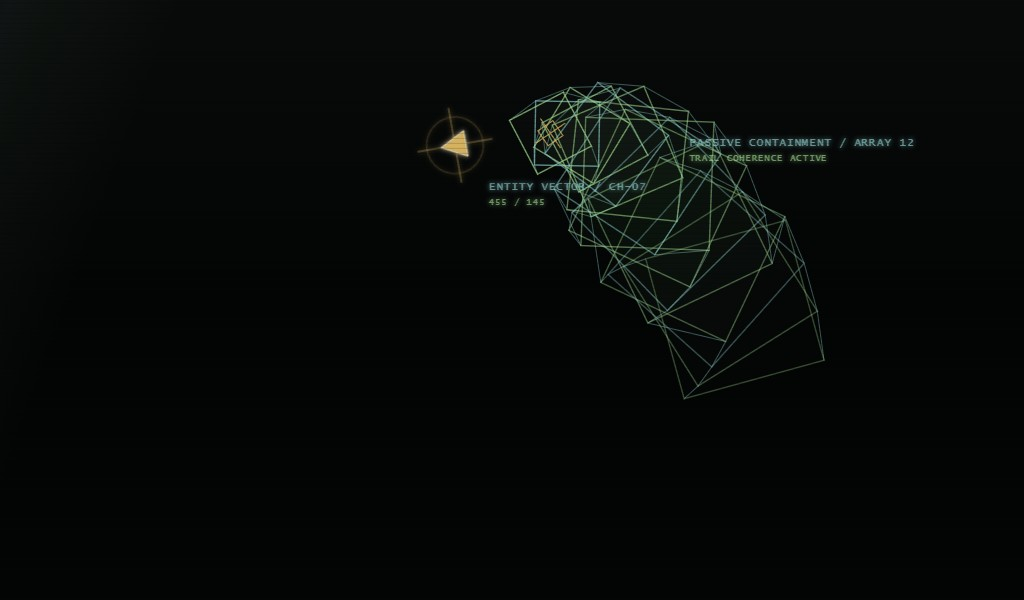
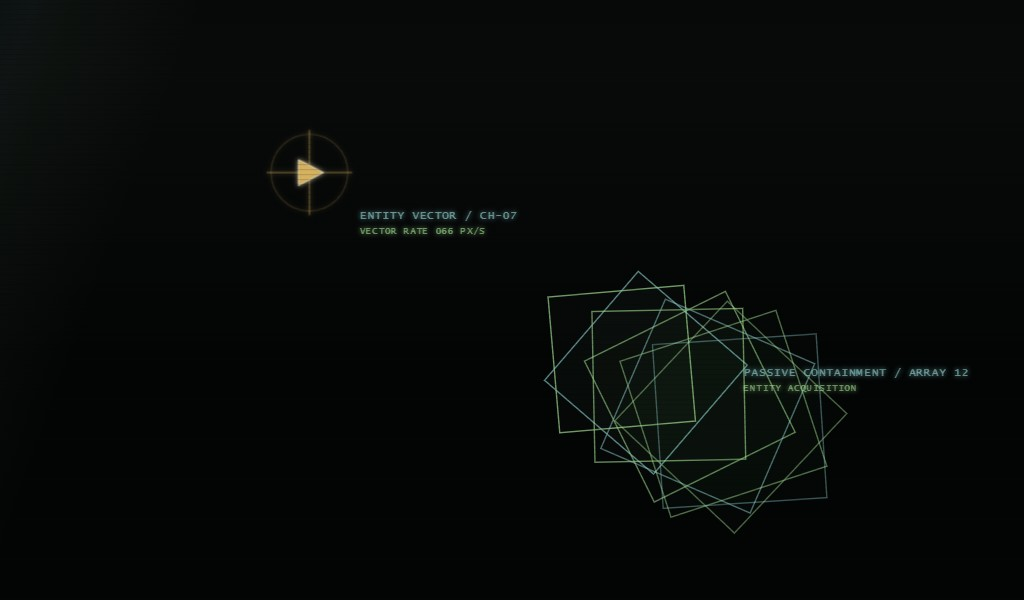
refine standby pursuit dynamics

Changed region(s): [[0.3438, 0.12, 0.9375, 0.87], [0.25, 0.21, 0.3438, 0.36], [0.4062, 0.18, 0.4688, 0.3]]

diff --git a/src/specter/ui/web_static/app.js b/src/specter/ui/web_static/app.js
@@ -1343,28 +1343,21 @@ function screensaverScreen() {
             <feMerge><feMergeNode in="blur"></feMergeNode><feMergeNode in="SourceGraphic"></feMergeNode></feMerge>
           </filter>
         </defs>
-        <g class="tunnel-rails">
-          <path></path><path></path><path></path><path></path>
-        </g>
         <g class="tunnel-frames">
-          ${Array.from({ length: 16 }, (_, index) => `<rect data-frame="${index}" x="-50" y="-50" width="100" height="100"></rect>`).join("")}
-        </g>
-        <g class="tunnel-core" aria-hidden="true">
-          <rect x="-9" y="-9" width="18" height="18"></rect>
-          <path d="M -18 0 H 18 M 0 -18 V 18"></path>
+          ${Array.from({ length: 8 }, (_, index) => `<rect data-frame="${index}" x="-50" y="-50" width="100" height="100"></rect>`).join("")}
         </g>
         <g class="containment-target" aria-hidden="true">
-          <circle r="27"></circle>
+          <circle data-speed-ring r="27"></circle>
           <path class="target-cross" d="M -38 0 H 38 M 0 -38 V 38"></path>
           <path class="target-mark" d="M 0 -14 L 13 11 L -13 11 Z"></path>
         </g>
         <g class="tunnel-label tunnel-array-label">
           <text>PASSIVE CONTAINMENT / ARRAY 12</text>
-          <text y="15">TRAIL COHERENCE ACTIVE</text>
+          <text y="15" data-lock-readout>ENTITY ACQUISITION</text>
         </g>
         <g class="tunnel-label tunnel-target-label">
           <text>ENTITY VECTOR / CH-07</text>
-          <text y="15" data-vector-readout>000 / 000</text>
+          <text y="15" data-vector-readout>VECTOR RATE 000 px/s</text>
         </g>
       </svg>
     </div>
@@ -1384,29 +1377,49 @@ function startScreensaverAnimation() {
   const svg = screen.querySelector(".containment-tunnel");
   if (!svg) return;
   const frames = [...svg.querySelectorAll("[data-frame]")];
-  const rails = [...svg.querySelectorAll(".tunnel-rails path")];
-  const core = svg.querySelector(".tunnel-core");
   const target = svg.querySelector(".containment-target");
+  const targetRing = svg.querySelector("[data-speed-ring]");
+  const targetCross = svg.querySelector(".target-cross");
   const arrayLabel = svg.querySelector(".tunnel-array-label");
   const targetLabel = svg.querySelector(".tunnel-target-label");
+  const lockReadout = svg.querySelector("[data-lock-readout]");
   const vectorReadout = svg.querySelector("[data-vector-readout]");
   const startedAt = performance.now();
   let lastRenderedAt = 0;
+  let lastTickAt = startedAt;
+  let lockAmount = 0;
+  let captureSeconds = 0;
+  let escapeUntil = 0;
+  let escapeCooldownUntil = 0;
+  let waypointIndex = 0;
+
+  const waypoints = [
+    { x: 790, y: 122 },
+    { x: 884, y: 448 },
+    { x: 574, y: 512 },
+    { x: 166, y: 432 },
+    { x: 132, y: 142 },
+    { x: 494, y: 86 },
+    { x: 704, y: 326 },
+    { x: 342, y: 294 },
+  ];
+  const targetState = { x: 268, y: 168, vx: 52, vy: 18 };
+  const chaserState = { x: 724, y: 414, vx: -44, vy: -16 };
+  const history = Array.from({ length: 96 }, (_, index) => ({
+    x: Math.min(940, chaserState.x + index * 2.3),
+    y: Math.min(532, chaserState.y + index * 1.05),
+  }));
 
   const clamp = (number, minimum, maximum) => Math.max(minimum, Math.min(maximum, number));
-  const trajectory = (seconds) => ({
-    x: clamp(512 + Math.sin(seconds * 0.61) * 300 + Math.sin(seconds * 1.37) * 72, 82, 942),
-    y: clamp(300 + Math.cos(seconds * 0.47) * 174 + Math.sin(seconds * 1.09) * 58, 74, 526),
-  });
-  const corners = (point, size, angleDegrees) => {
-    const angle = angleDegrees * Math.PI / 180;
-    const cosine = Math.cos(angle);
-    const sine = Math.sin(angle);
-    const half = size / 2;
-    return [[-half, -half], [half, -half], [half, half], [-half, half]].map(([x, y]) => ({
-      x: point.x + x * cosine - y * sine,
-      y: point.y + x * sine + y * cosine,
-    }));
+  const length = (x, y) => Math.hypot(x, y);
+  const sampleHistory = (index) => {
+    const lowerIndex = Math.min(history.length - 1, Math.floor(index));
+    const upperIndex = Math.min(history.length - 1, lowerIndex + 1);
+    const fraction = index - lowerIndex;
+    return {
+      x: history[lowerIndex].x + (history[upperIndex].x - history[lowerIndex].x) * fraction,
+      y: history[lowerIndex].y + (history[upperIndex].y - history[lowerIndex].y) * fraction,
+    };
   };
 
   const animate = (now) => {
@@ -1419,46 +1432,100 @@ function startScreensaverAnimation() {
       return;
     }
     lastRenderedAt = now;
+    const deltaSeconds = clamp((now - lastTickAt) / 1000, 0.001, 0.08);
+    lastTickAt = now;
     const seconds = (now - startedAt) / 1000 + 5.4;
-    const geometry = frames.map((frame, index) => {
-      const age = 0.62 + index * 0.145;
-      const point = trajectory(seconds - age);
-      const size = 70 + index * 5.8 + Math.sin(seconds * 0.92 - index * 0.46) * 12;
-      const angle = seconds * (14 + (index % 4) * 2.4) + index * 9.5
-        + Math.sin(seconds * 0.7 - index * 0.31) * 24;
+
+    let waypoint = waypoints[waypointIndex];
+    let targetToWaypointX = waypoint.x - targetState.x;
+    let targetToWaypointY = waypoint.y - targetState.y;
+    let targetToWaypointDistance = length(targetToWaypointX, targetToWaypointY);
+    if (targetToWaypointDistance < 46) {
+      waypointIndex = (waypointIndex + 1) % waypoints.length;
+      waypoint = waypoints[waypointIndex];
+      targetToWaypointX = waypoint.x - targetState.x;
+      targetToWaypointY = waypoint.y - targetState.y;
+      targetToWaypointDistance = length(targetToWaypointX, targetToWaypointY);
+    }
+
+    const escaping = now < escapeUntil;
+    const desiredTargetSpeed = escaping ? 350 : 72;
+    const targetSteering = escaping ? 5.6 : 1.8;
+    const desiredTargetVx = targetToWaypointX / Math.max(1, targetToWaypointDistance) * desiredTargetSpeed;
+    const desiredTargetVy = targetToWaypointY / Math.max(1, targetToWaypointDistance) * desiredTargetSpeed;
+    const targetBlend = Math.min(1, targetSteering * deltaSeconds);
+    targetState.vx += (desiredTargetVx - targetState.vx) * targetBlend;
+    targetState.vy += (desiredTargetVy - targetState.vy) * targetBlend;
+    targetState.x = clamp(targetState.x + targetState.vx * deltaSeconds, 72, 952);
+    targetState.y = clamp(targetState.y + targetState.vy * deltaSeconds, 68, 532);
+
+    const chaseX = targetState.x - chaserState.x;
+    const chaseY = targetState.y - chaserState.y;
+    const chaseDistance = length(chaseX, chaseY);
+    const desiredChaserSpeed = clamp(chaseDistance * 1.28, 36, 238);
+    const desiredChaserVx = chaseX / Math.max(1, chaseDistance) * desiredChaserSpeed;
+    const desiredChaserVy = chaseY / Math.max(1, chaseDistance) * desiredChaserSpeed;
+    const chaserBlend = Math.min(1, 3.3 * deltaSeconds);
+    chaserState.vx += (desiredChaserVx - chaserState.vx) * chaserBlend;
+    chaserState.vy += (desiredChaserVy - chaserState.vy) * chaserBlend;
+    chaserState.x = clamp(chaserState.x + chaserState.vx * deltaSeconds, 58, 966);
+    chaserState.y = clamp(chaserState.y + chaserState.vy * deltaSeconds, 54, 546);
+
+    const lockTarget = clamp(1 - chaseDistance / 112, 0, 1);
+    lockAmount += (lockTarget - lockAmount) * Math.min(1, deltaSeconds * 3.2);
+    if (!escaping && chaseDistance < 48 && now >= escapeCooldownUntil) {
+      captureSeconds += deltaSeconds;
+      if (captureSeconds > 1.15) {
+        waypointIndex = (waypointIndex + 3) % waypoints.length;
+        escapeUntil = now + 1650;
+        escapeCooldownUntil = now + 5200;
+        captureSeconds = 0;
+      }
+    } else {
+      captureSeconds = Math.max(0, captureSeconds - deltaSeconds * 1.8);
+    }
+
+    history.unshift({ x: chaserState.x, y: chaserState.y });
+    if (history.length > 96) history.pop();
+    const delayStep = 0.38 + (1 - lockAmount) * 3.45;
+    const frameGeometry = frames.map((frame, index) => {
+      const point = sampleHistory(index * delayStep);
+      const distanceToTarget = length(targetState.x - point.x, targetState.y - point.y);
+      const size = clamp(38 + distanceToTarget * 0.27, 38, 164);
+      const angle = seconds * (17 + (index % 3) * 4.1) + index * 17
+        + Math.sin(seconds * 0.73 - index * 0.42) * 19;
       frame.setAttribute("transform", `translate(${point.x.toFixed(2)} ${point.y.toFixed(2)}) rotate(${angle.toFixed(2)})`);
       frame.setAttribute("x", (-size / 2).toFixed(2));
       frame.setAttribute("y", (-size / 2).toFixed(2));
       frame.setAttribute("width", size.toFixed(2));
       frame.setAttribute("height", size.toFixed(2));
-      frame.style.opacity = String(0.96 - index * 0.035);
-      return { point, angle, corners: corners(point, size, angle) };
+      frame.style.opacity = String(0.94 - index * 0.055);
+      return point;
     });
 
-    rails.forEach((rail, cornerIndex) => {
-      const points = geometry.map((frame) => frame.corners[cornerIndex]);
-      rail.setAttribute("d", points.map((point, index) => `${index ? "L" : "M"} ${point.x.toFixed(1)} ${point.y.toFixed(1)}`).join(" "));
-    });
+    const targetSpeed = length(targetState.vx, targetState.vy);
+    const targetHeading = Math.atan2(targetState.vy, targetState.vx) * 180 / Math.PI + 90;
+    const ringRadius = clamp(22 + targetSpeed * 0.16, 24, 78);
+    const crossExtent = ringRadius + 10;
+    target.setAttribute("transform", `translate(${targetState.x.toFixed(2)} ${targetState.y.toFixed(2)}) rotate(${targetHeading.toFixed(2)})`);
+    targetRing.setAttribute("r", ringRadius.toFixed(2));
+    targetCross.setAttribute("d", `M ${-crossExtent.toFixed(1)} 0 H ${crossExtent.toFixed(1)} M 0 ${-crossExtent.toFixed(1)} V ${crossExtent.toFixed(1)}`);
 
-    const lead = geometry[0];
-    core.setAttribute("transform", `translate(${lead.point.x.toFixed(2)} ${lead.point.y.toFixed(2)}) rotate(${(lead.angle * -0.55).toFixed(2)})`);
-    const targetPoint = trajectory(seconds);
-    const targetHeading = Math.atan2(
-      trajectory(seconds + 0.02).y - targetPoint.y,
-      trajectory(seconds + 0.02).x - targetPoint.x,
-    ) * 180 / Math.PI + 90;
-    target.setAttribute("transform", `translate(${targetPoint.x.toFixed(2)} ${targetPoint.y.toFixed(2)}) rotate(${targetHeading.toFixed(2)})`);
-
-    const labelAnchor = geometry[Math.min(8, geometry.length - 1)].point;
+    const labelAnchor = frameGeometry[Math.min(5, frameGeometry.length - 1)];
     arrayLabel.setAttribute(
       "transform",
       `translate(${clamp(labelAnchor.x + 42, 24, 744).toFixed(1)} ${clamp(labelAnchor.y - 38, 28, 552).toFixed(1)})`,
     );
     targetLabel.setAttribute(
       "transform",
-      `translate(${clamp(targetPoint.x + 34, 24, 814).toFixed(1)} ${clamp(targetPoint.y + 45, 38, 550).toFixed(1)})`,
+      `translate(${clamp(targetState.x + ringRadius + 18, 24, 814).toFixed(1)} ${clamp(targetState.y + ringRadius + 14, 38, 550).toFixed(1)})`,
     );
-    vectorReadout.textContent = `${String(Math.round(targetPoint.x)).padStart(3, "0")} / ${String(Math.round(targetPoint.y)).padStart(3, "0")}`;
+    lockReadout.textContent = escaping
+      ? "FIELD LOCK COLLAPSE"
+      : lockAmount > 0.72
+        ? "FIELD LOCK ACQUIRED"
+        : "ENTITY ACQUISITION";
+    vectorReadout.textContent = `VECTOR RATE ${String(Math.round(targetSpeed)).padStart(3, "0")} px/s`;
     screensaverAnimationFrame = requestAnimationFrame(animate);
   };
 

diff --git a/src/specter/ui/web_static/styles.css b/src/specter/ui/web_static/styles.css
@@ -1413,21 +1413,6 @@ button[aria-busy="true"] {
   stroke: rgba(135, 199, 197, 0.74);
 }
 
-.tunnel-rails path {
-  fill: none;
-  stroke: rgba(135, 199, 197, 0.42);
-  stroke-width: 1;
-  vector-effect: non-scaling-stroke;
-}
-
-.tunnel-core rect,
-.tunnel-core path {
-  fill: none;
-  stroke: rgba(215, 179, 95, 0.76);
-  stroke-width: 1.2;
-  vector-effect: non-scaling-stroke;
-}
-
 .containment-target {
   filter: url("#containment-glow");
 }

diff --git a/tests/test_web.py b/tests/test_web.py
@@ -15,15 +15,18 @@ class WebUiTests(unittest.TestCase):
         self.assertIn("EXTERNAL CAPACITY", menu_source)
         self.assertNotIn('data-action="beeper"', menu_source)
 
-    def test_screensaver_uses_a_moving_connected_tunnel(self):
+    def test_screensaver_uses_distance_reactive_unconnected_frames(self):
         source = files("specter.ui.web_static").joinpath("app.js").read_text(encoding="utf-8")
         screensaver_source = source[
             source.index("function screensaverScreen()") : source.index("function animateAnalysisProgress()")
         ]
 
         self.assertIn('class="containment-tunnel"', screensaver_source)
-        self.assertIn('class="tunnel-rails"', screensaver_source)
+        self.assertIn("Array.from({ length: 8 }", screensaver_source)
         self.assertIn("requestAnimationFrame", screensaver_source)
+        self.assertIn("distanceToTarget * 0.27", screensaver_source)
+        self.assertIn("targetSpeed * 0.16", screensaver_source)
+        self.assertNotIn('class="tunnel-rails"', screensaver_source)
         self.assertNotIn('class="containment-grid"', screensaver_source)
         self.assertNotIn('class="screensaver-readout"', screensaver_source)
 

diff --git a/scripts/capture_ui_screenshots.py b/scripts/capture_ui_screenshots.py
@@ -47,7 +47,7 @@ SCREENS = (
     Screen("external-complete", "14-external-analysis-complete.jpg", 2500),
     Screen("diagnostics", "15-diagnostics.jpg"),
     Screen("acoustic", "16-acoustic-signals.jpg"),
-    Screen("standby", "17-standby-containment.jpg", 450, False),
+    Screen("standby", "17-standby-containment.jpg", 650, False),
 )
 SCREEN_BY_NAME = {screen.name: screen for screen in SCREENS}
 
